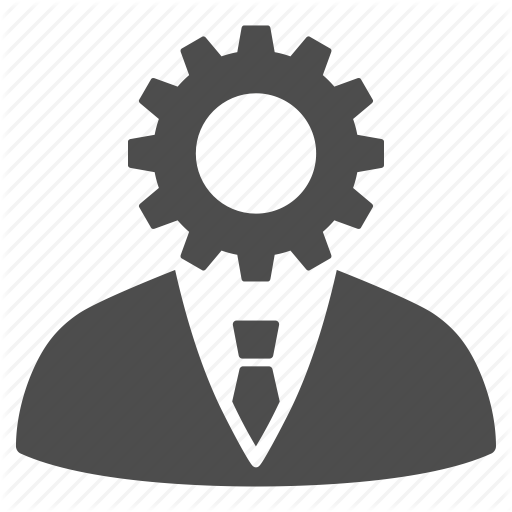
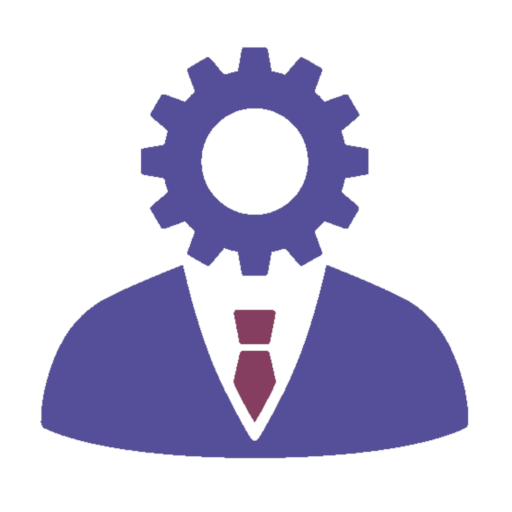
Change images for mentor, codecooler, admin, artifact and quest

diff --git a/front_end/html/mentor_create_artifact.html b/front_end/html/mentor_create_artifact.html
@@ -47,10 +47,10 @@
     
 <div class="main">    
     <div class="flexbox-container">
-        <img src="images/artifact.jpg" class="avatar">
+        <img src="images/artifact.png" class="avatar">
         <form action="/action_page.php">
             <div id="topcontent">
-            g    <h2>Create new artifact:</h2>
+                <h2>Create new artifact:</h2>
                 <p class="nameinput">Name:</p>
                 <input class="profilebox" type="text" name="artifact_name" value="">
             </div>

diff --git a/front_end/html/mentor_create_codecooler.html b/front_end/html/mentor_create_codecooler.html
@@ -47,7 +47,7 @@
     
 <div class="main">    
     <div class="flexbox-container">
-        <img src="images/codecooler.svg" class="avatar" id="codecooler-img">
+        <img src="images/codecooler.png" class="avatar" id="codecooler-img">
         <form action="/action_page.php">
             <div id="topcontent">
                 <h2>Create new Codecooler:</h2>

diff --git a/front_end/html/admin_create_mentor.html b/front_end/html/admin_create_mentor.html
@@ -46,7 +46,7 @@
     </nav>
 <div class="main">    
     <div class="flexbox-container">
-        <img src="images/mentor.jpeg" class="avatar">
+        <img src="images/mentor.png" class="avatar">
         <form action="/action_page.php">
             <div id="topcontent">
                 <h2>Create new Mentor:</h2>

diff --git a/front_end/html/admin_one_mentor.html b/front_end/html/admin_one_mentor.html
@@ -46,7 +46,7 @@
     </nav>
 <div class="main">    
     <div class="flexbox-container">
-        <img src="images/mentor.jpeg" class="avatar">
+        <img src="images/mentor.png" class="avatar">
         <form action="/action_page.php">
             <div id="topcontent">
                 <h2>Marek Grzybek</h2>

diff --git a/front_end/html/mentor_create_quest.html b/front_end/html/mentor_create_quest.html
@@ -47,7 +47,7 @@
     
 <div class="main">    
     <div class="flexbox-container">
-        <img src="images/quest2.png" class="avatar">
+        <img src="images/quest.png" class="avatar">
         <form action="/action_page.php">
             <div id="topcontent">
                 <h2>Create new quest:</h2>

diff --git a/front_end/html/mentor_one_artifact.html b/front_end/html/mentor_one_artifact.html
@@ -47,7 +47,7 @@
     
 <div class="main">    
     <div class="flexbox-container">
-        <img src="images/artifact.jpg" class="avatar">
+        <img src="images/artifact.png" class="avatar">
         <form action="/action_page.php">
             <div id="topcontent">
                 <h2>Day off</h2>

diff --git a/front_end/html/mentor_one_quest.html b/front_end/html/mentor_one_quest.html
@@ -47,7 +47,7 @@
     
 <div class="main">    
     <div class="flexbox-container">
-        <img src="images/quest2.png" class="avatar">
+        <img src="images/quest.png" class="avatar">
         <form action="/action_page.php">
             <div id="topcontent">
                 <h2>Complete SI</h2>

diff --git a/front_end/html/mentor_profile.html b/front_end/html/mentor_profile.html
@@ -47,7 +47,7 @@
 
 <div class="main">    
     <div class="flexbox-container">
-        <img src="images/mentor.jpeg" class="avatar">
+        <img src="images/mentor.png" class="avatar">
         <form action="/action_page.php">
             <div id="topcontent">
                 <h2>Marek Grzybek</h2>
